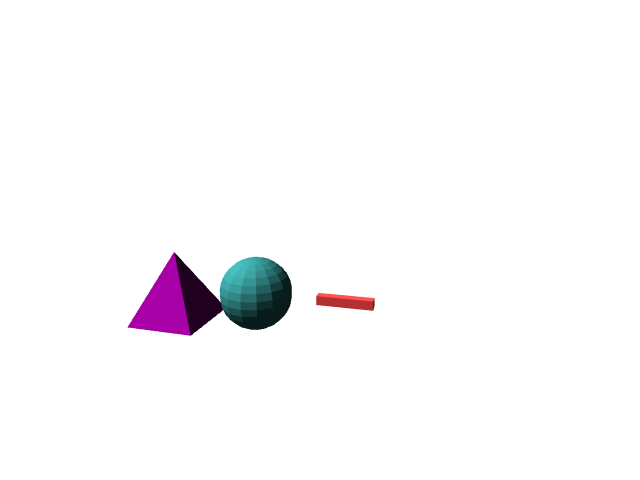
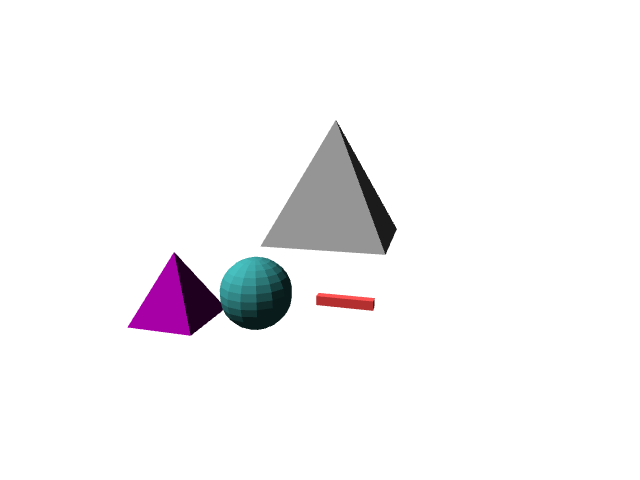
Update README

Changed region(s): [[0.4062, 0.25, 0.625, 0.5312]]

diff --git a/README.md b/README.md
@@ -2,6 +2,10 @@
 
 Haxe externs for [W the micro WebGL2 framework](https://xem.github.io/W/)
 
+## Requirements
+
+ *  Haxe 4
+
 ## Example
 
 ```haxe
@@ -16,7 +20,23 @@ function main() {
     W.cube({x:5, w:3, h:.5, d:.5, b:"f44"});
     W.sphere({x:0, size:4, b:"388"});
     W.pyramid({x:-5, size:4, b:"909"});
+    W.add("custom_model", {
+        vertices: [
+            -.5, -.5, .5, .5, -.5, .5,  0, .5, 0,
+            .5, -.5, .5, .5, -.5, -.5,  0, .5, 0,
+            .5, -.5, -.5, -.5, -.5, -.5,  0, .5, 0,
+            -.5, -.5, -.5, -.5, -.5, .5,  0, .5, 0,
+        ],
+        uv: [
+            0, 0, 1, 0, .5, 1,
+            0, 0, 1, 0, .5, 1,
+            0, 0, 1, 0, .5, 1,
+            0, 0, 1, 0, .5, 1,
+        ]
+    });
+    W.custom_model({x:1, y:5, z:-15, size:10});
 }
+
 ```
 
 produces
